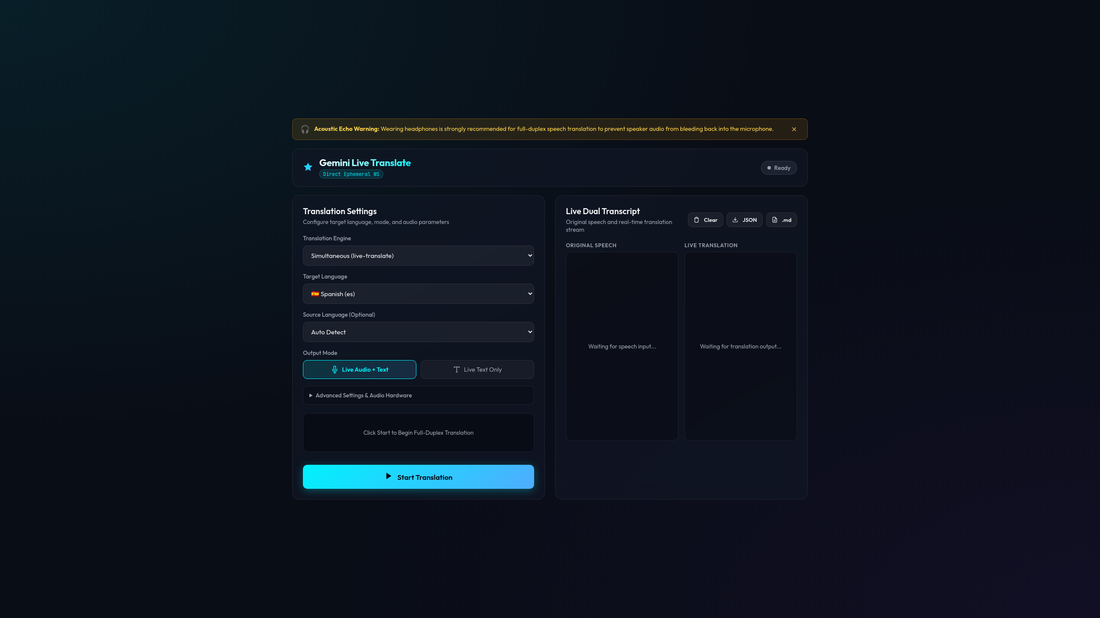
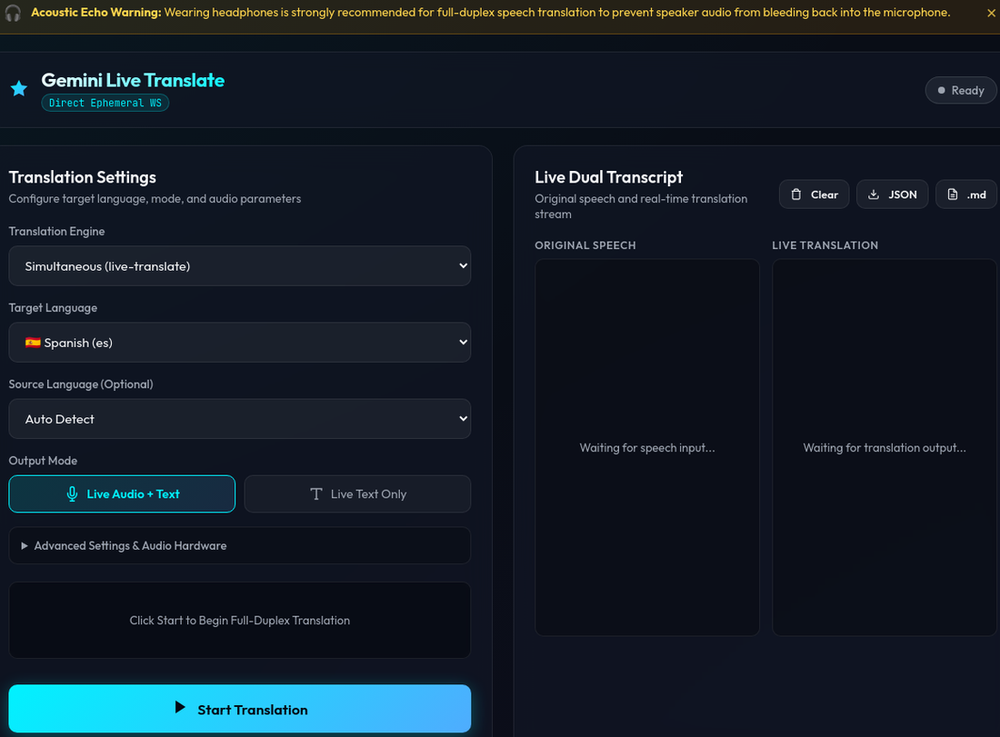
Tighten README screenshot, crop out surrounding whitespace

diff --git a/README.md b/README.md
@@ -12,12 +12,12 @@ model or deployment does not support `translationConfig`.
 
 ---
 
-## How it looks
+## What it looks like
 
-The interface captures microphone audio, streams it directly to Gemini over a
-WebSocket, and returns the translated audio plus a live text transcript. Select
-the engine, target language, and output mode below, then press **Start
-Translation** to begin.
+A dark, centered panel with the translation engine, source/target language
+pickers, output mode toggle, and expandable audio-hardware settings. Select your
+options, then press **Start Translation** — the dual transcript below fills in
+with the original speech and its live translation as you talk.
 
 ![Gemini Live Translate UI](screenshots/app.png)
 
